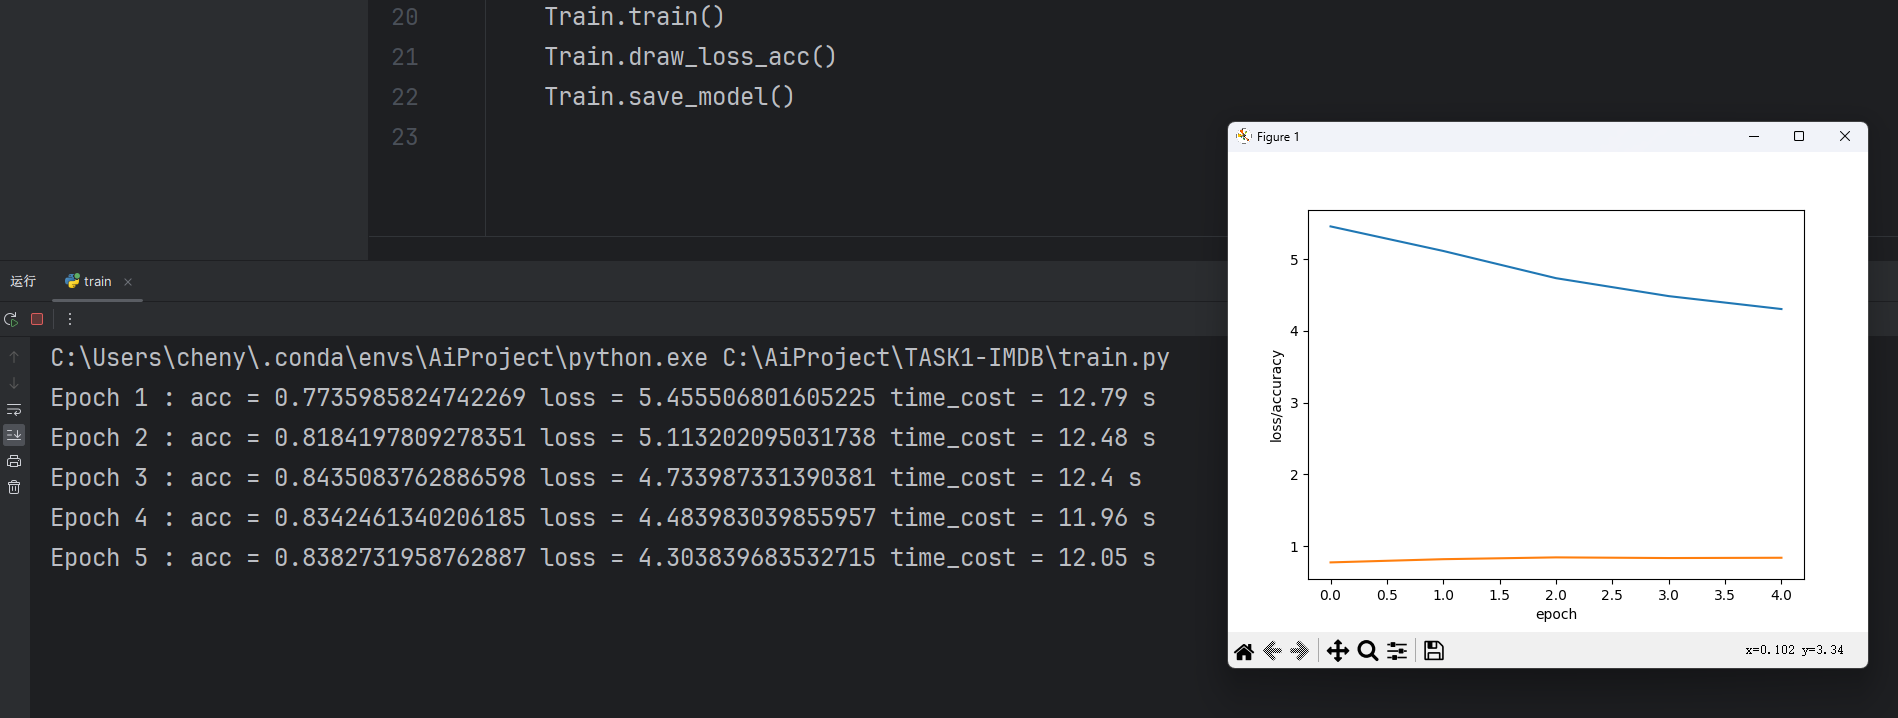
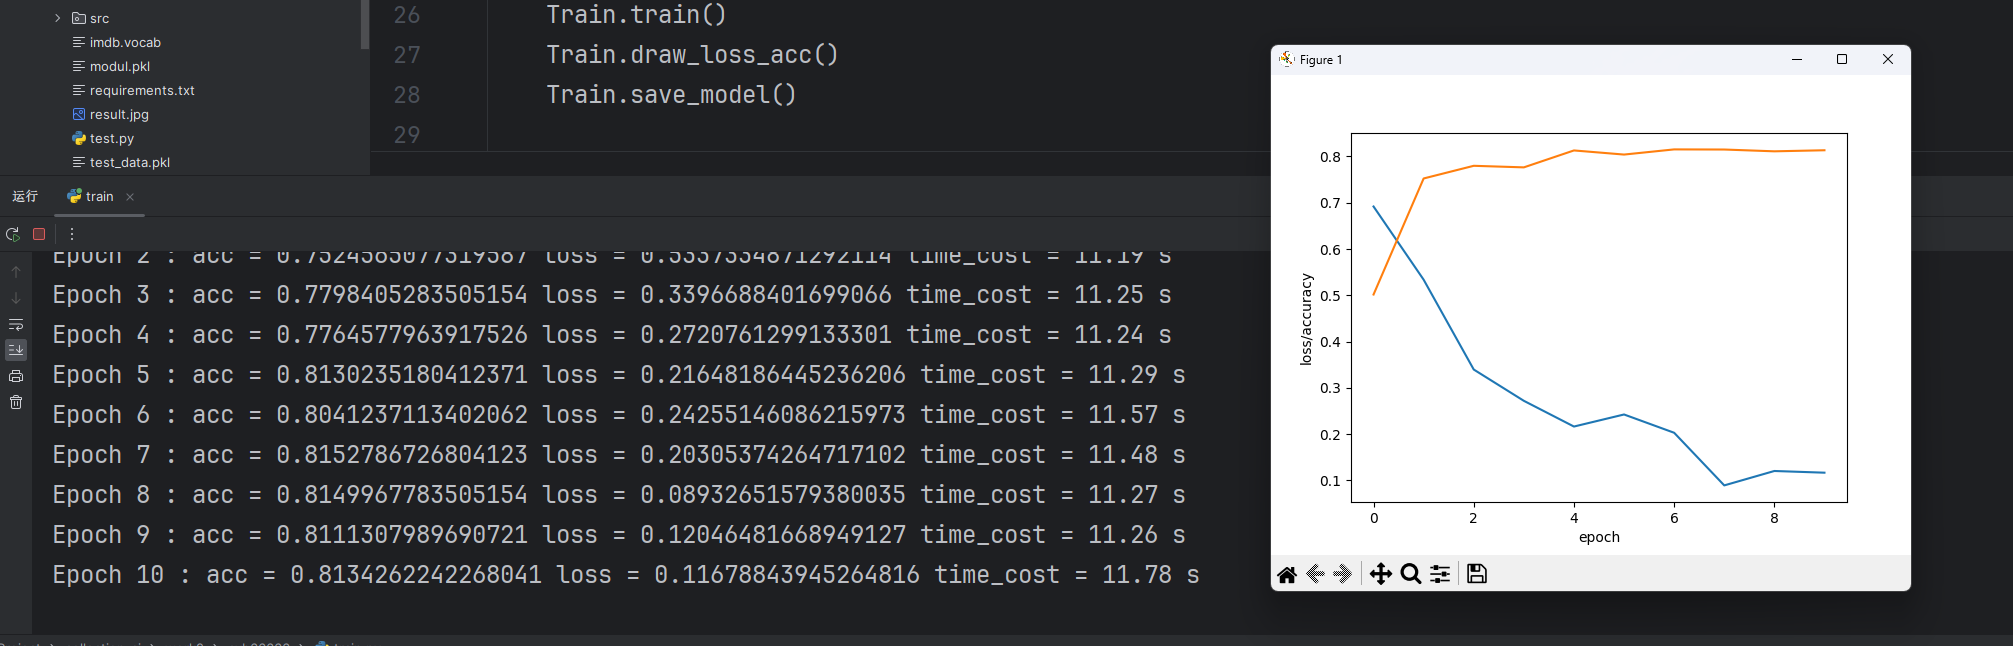
fix

diff --git a/work2/cyb66666/src/model.py b/work2/cyb66666/src/model.py
@@ -18,10 +18,10 @@ class imdb_model(nn.Module):
         self.num_direction = 2 if self.bidirectional else 1
         self.max_len = max_len
         self.embedding = nn.Embedding(len(w2s) + 1, embedding_dim=self.embedding_dims)
-        self.drop_out = 0.5
+        self.drop_out = 0.2
         self.Dropout = nn.Dropout(self.drop_out)
         self.lstm = nn.LSTM(input_size=self.embedding_dims, hidden_size=self.hidden_size,
-                            num_layers=self.num_layer, batch_first=True, bidirectional=False, dropout=self.drop_out)
+                            num_layers=self.num_layer, batch_first=True, bidirectional=False)
         self.li = nn.Linear(self.hidden_size * 1, 2)
 
     def forward(self, input):
@@ -30,7 +30,7 @@ class imdb_model(nn.Module):
             setattr(self, '_flattened', True)
         output = self.embedding(input)
         output, (hn, cn) = self.lstm(output)
-        # output = output[:, -1, :]
-        output = torch.mean(output, dim=1)
+        output = output[:, -1, :]
+        # output = torch.mean(output, dim=1)
         output = torch.sigmoid(self.li(output))
         return output

diff --git a/work2/cyb66666/train.py b/work2/cyb66666/train.py
@@ -7,13 +7,13 @@ from src import trainer, model, utils, Word2Sequence
 
 w2s = Word2Sequence.Word2Sequence()
 w2s.input_vocab('./imdb.vocab')
-learning_rate = 0.0009
+learning_rate = 0.01
 weight_decay = 0.0001
 device = torch.device('cuda' if torch.cuda.is_available() else 'cpu')
 # model, optimizer, epochs, lambda_reg, test_imdb_dataloader, imdb_dataloader
 model_ = model.imdb_model(w2s).to(device)
-optimizer = torch.optim.AdamW(model_.parameters(), lr=learning_rate, weight_decay=weight_decay)
-epochs = 5
+optimizer = torch.optim.Adam(model_.parameters(), lr=learning_rate)
+epochs = 10
 lambda_reg = 0.001
 # test_imdb_dataloader = utils.imdb_dataloader('./IMDB.json','test',w2s)
 # train_imdb_dataloader = utils.imdb_dataloader('./IMDB.json','train',w2s)

diff --git a/work2/cyb66666/src/trainer.py b/work2/cyb66666/src/trainer.py
@@ -31,10 +31,6 @@ class Trainer:
                 output = self.model.forward(x)
                 loss = BCE(output, y)
                 e_loss = loss
-                l2_reg = torch.tensor(0.).to(device)
-                for param in self.model.parameters():
-                    l2_reg += torch.norm(param, p=2)
-                loss += self.lambda_reg * l2_reg
                 loss.backward()
                 optimizer.step()
             acc = self.evaluate()
